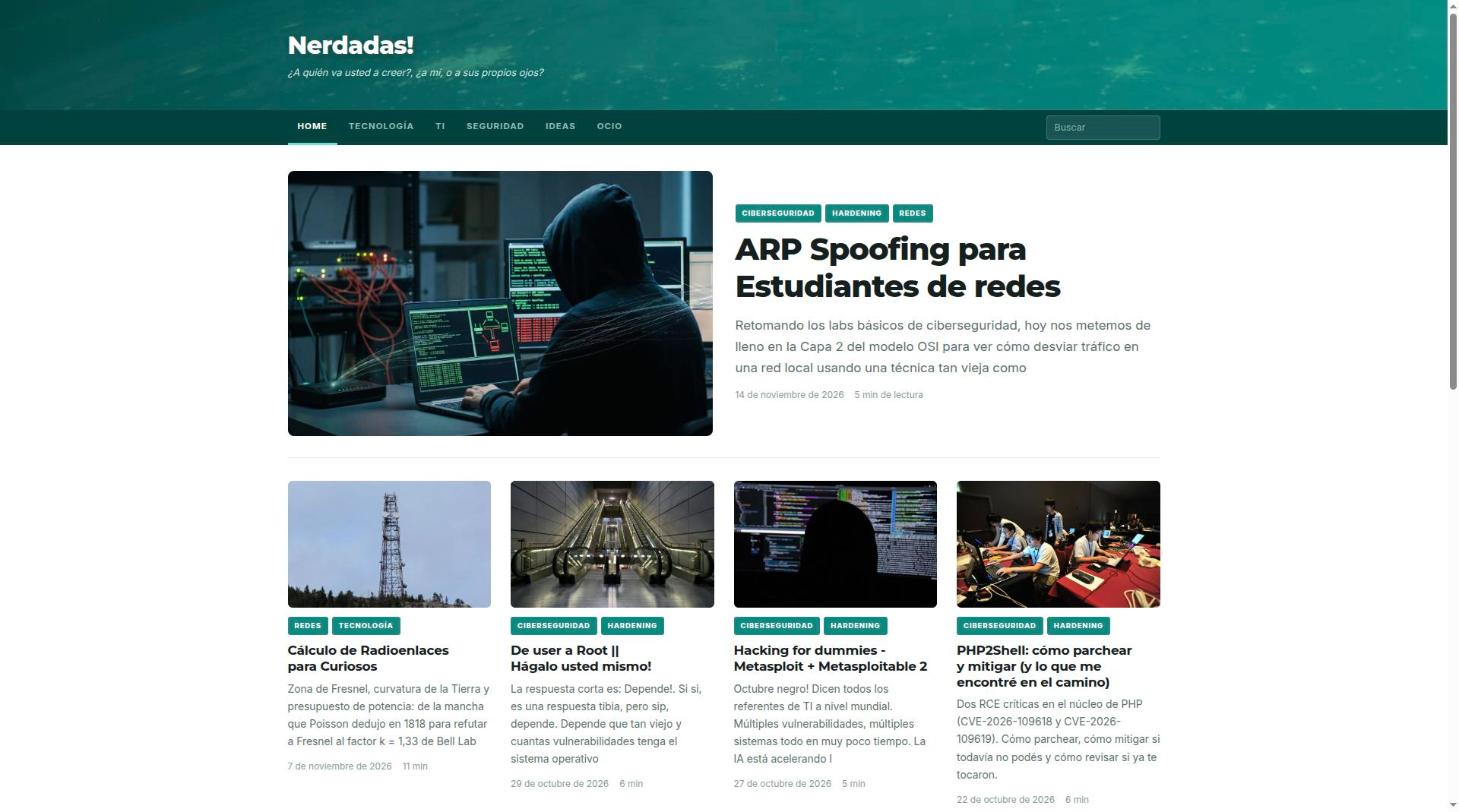
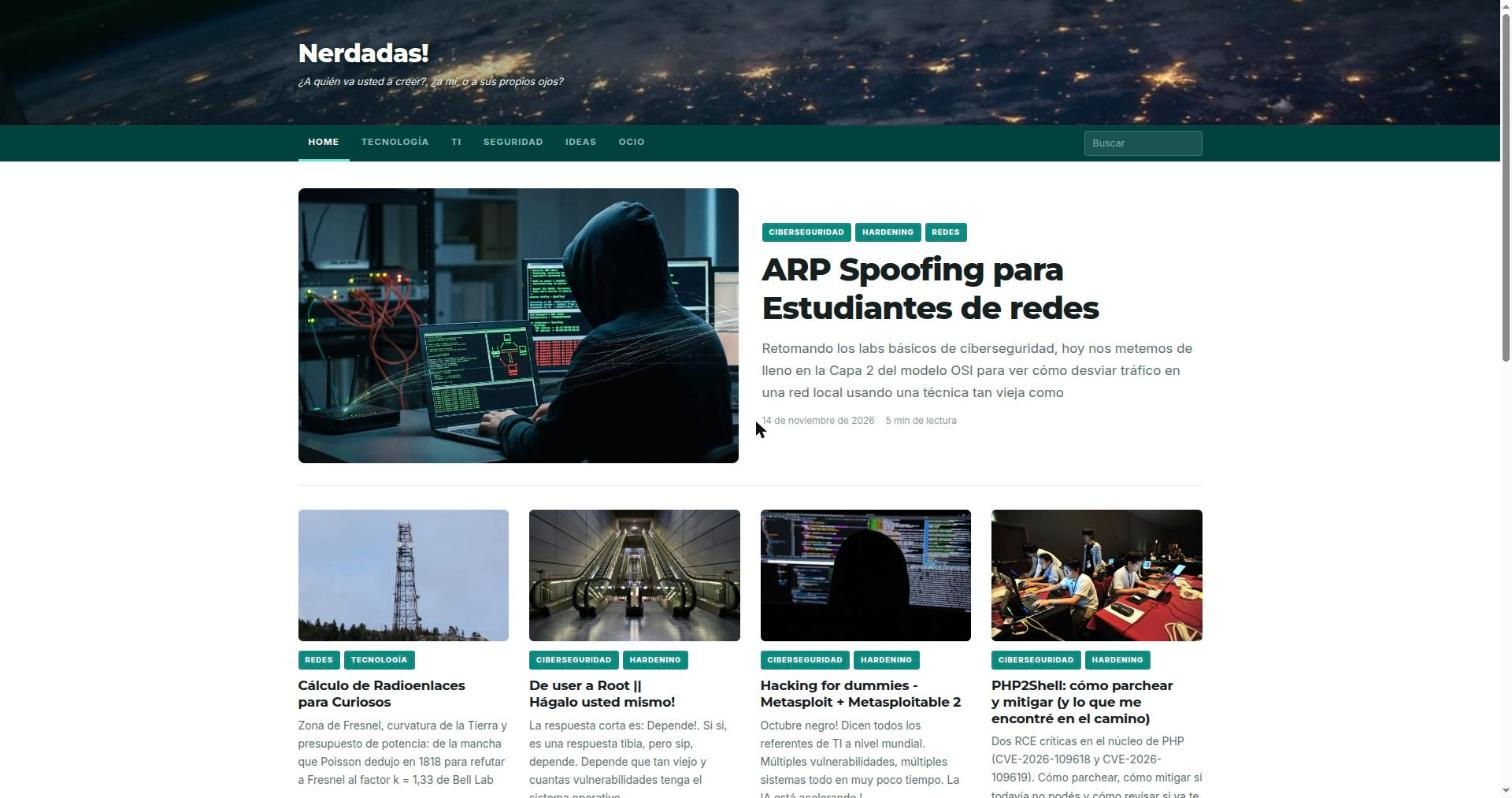
El encabezado con foto ya no la tapa
El degradé verde de marca iba al 82% sobre toda la imagen: el resultado era
una mancha verde con una textura adentro, y la foto daba igual. Ahora el velo
es neutro y cubre solo la franja izquierda, que es donde está el texto; del
72% del ancho para la derecha la imagen se ve tal cual. Lo que hace legible
el título es el text-shadow.

El ajuste pasó a llamarse «Velo detrás del título» y regula esa sombra.
Capturas 01 y 03 rehechas.

diff --git a/public/assets/css/theme.css b/public/assets/css/theme.css
@@ -105,21 +105,40 @@ a:focus-visible, input:focus-visible, button:focus-visible {
 /* Con foto: la imagen va en un <img> de fondo y el degradé encima.
    Un <img> y no background-image porque la CSP no admite estilos en línea,
    y de paso el navegador puede elegir el tamaño del srcset. */
-.mast-photo { padding-block: 44px 38px; }
+.mast-photo { padding-block: 52px 44px; }
 .mast-bg {
   position: absolute; inset: 0; width: 100%; height: 100%;
   object-fit: cover; z-index: -2;
 }
+
+/* Cuando hay foto, manda la foto.
+ *
+ * Antes iba el degradé verde de marca al 82% encima de toda la imagen, que es
+ * lo mismo que no tener imagen: se veía una mancha verde con una textura
+ * adentro. Ahora el velo es neutro —no tiñe— y cubre solo la franja izquierda,
+ * que es donde está el texto; del 72% del ancho para la derecha la foto se ve
+ * tal cual. La segunda capa es una caída suave arriba, para que el borde con
+ * la barra de navegación no quede cortado en seco.
+ *
+ * Lo que hace legible el título no es el velo sino el text-shadow: tapar la
+ * foto entera para leer dos líneas es pagar carísimo por el contraste.
+ */
 .mast-photo::before {
   content: ""; position: absolute; inset: 0; z-index: -1;
-  background: linear-gradient(118deg, var(--brand-a), var(--brand-b) 58%, var(--brand-c));
-  opacity: var(--overlay, .82);
+  background:
+    linear-gradient(90deg,
+      rgba(0, 22, 20, var(--scrim, .45)) 0%,
+      rgba(0, 22, 20, calc(var(--scrim, .45) * .55)) 38%,
+      rgba(0, 22, 20, 0) 72%),
+    linear-gradient(180deg,
+      rgba(0, 22, 20, calc(var(--scrim, .45) * .5)) 0%,
+      rgba(0, 22, 20, 0) 45%);
 }
-.mast-photo[data-overlay="suave"] { --overlay: .62; }
-.mast-photo[data-overlay="medio"] { --overlay: .82; }
-.mast-photo[data-overlay="fuerte"] { --overlay: .93; }
-.mast-photo .brand { text-shadow: 0 2px 14px rgba(0, 30, 28, .5); }
-.mast-photo .tagline { color: #c6ece7; text-shadow: 0 1px 10px rgba(0, 30, 28, .5); }
+.mast-photo[data-overlay="suave"] { --scrim: .25; }
+.mast-photo[data-overlay="medio"] { --scrim: .45; }
+.mast-photo[data-overlay="fuerte"] { --scrim: .7; }
+.mast-photo .brand { text-shadow: 0 2px 10px rgba(0, 20, 18, .75), 0 1px 3px rgba(0, 20, 18, .6); }
+.mast-photo .tagline { color: #eaf6f4; text-shadow: 0 1px 8px rgba(0, 20, 18, .8); }
 
 .mast-in {
   max-width: var(--wrap); margin-inline: auto; padding-inline: var(--gut);

diff --git a/app/Admin/settings_schema.php b/app/Admin/settings_schema.php
@@ -25,11 +25,11 @@ return [
                 'help' => 'Se muestra detrás del nombre, con el degradé verde encima. Si la dejás vacía, queda solo el degradé.',
             ],
             'header_overlay' => [
-                'label' => 'Intensidad del degradé',
+                'label' => 'Velo detrás del título',
                 'type' => 'select',
                 'default' => 'medio',
                 'options' => ['suave' => 'Suave', 'medio' => 'Medio', 'fuerte' => 'Fuerte'],
-                'help' => 'Cuánto tapa el verde a la foto. Más fuerte se lee mejor; más suave se ve más la imagen.',
+                'help' => 'Una sombra neutra sobre la franja izquierda del encabezado, que es donde va el texto. No tiñe la foto ni la tapa: del centro hacia la derecha se ve tal cual. Subilo solo si la imagen es clara y el título no se lee.',
             ],
             'posts_per_page' => ['label' => 'Entradas por página', 'type' => 'number', 'default' => '10', 'min' => 3, 'max' => 50],
         ],

diff --git a/BITACORA.md b/BITACORA.md
@@ -108,6 +108,11 @@ conviviendo unos días, comparar peticiones y errores, y después mover el DNS.
 - **PHP y la base comparten zona horaria**, fijada por conexión en `Db`.
 - **El visitante anónimo no recibe cookie** — condición para que el caché de
   página sirva a todos por igual.
+- **Si el encabezado tiene foto, la foto manda.** El velo es neutro y cubre
+  solo la franja izquierda, que es donde va el texto; del 72% del ancho para
+  la derecha la imagen se ve tal cual. Lo que hace legible el título es el
+  `text-shadow`, no el velo. El degradé verde al 82% sobre toda la imagen
+  —como estaba— es lo mismo que no tener imagen.
 - **La fecha va dentro de `visitor_hash`**: es lo que hace que la analítica no
   sea seguimiento y no necesite banner.
 - **El formulario de comentarios no usa token de sesión.** Usa un desafío
@@ -364,3 +369,16 @@ estar en cero a propósito.
 **Pendiente de decidir**: el repositorio no tiene licencia, así que por
 defecto es «todos los derechos reservados». Si la idea es que alguien más lo
 pueda usar, hay que agregar un `LICENSE`.
+
+### 2026-11-14 (sexta parte)
+
+**Licencia MIT** y **encabezado con foto arreglado.**
+
+El encabezado tapaba la imagen con el degradé verde de marca al 82%: se veía
+una mancha verde con una textura adentro, que es justamente lo que el tema de
+WordPress no hacía —ahí la foto va a tamaño completo y sin nada encima—. Se
+reemplazó por un velo neutro, horizontal, sobre la franja izquierda donde va
+el texto; a partir del 72% del ancho no hay nada. El ajuste «Intensidad del
+degradé» pasó a llamarse «Velo detrás del título» y ahora regula eso.
+
+Las capturas 01 y 03 del repositorio se rehicieron con el encabezado nuevo.
